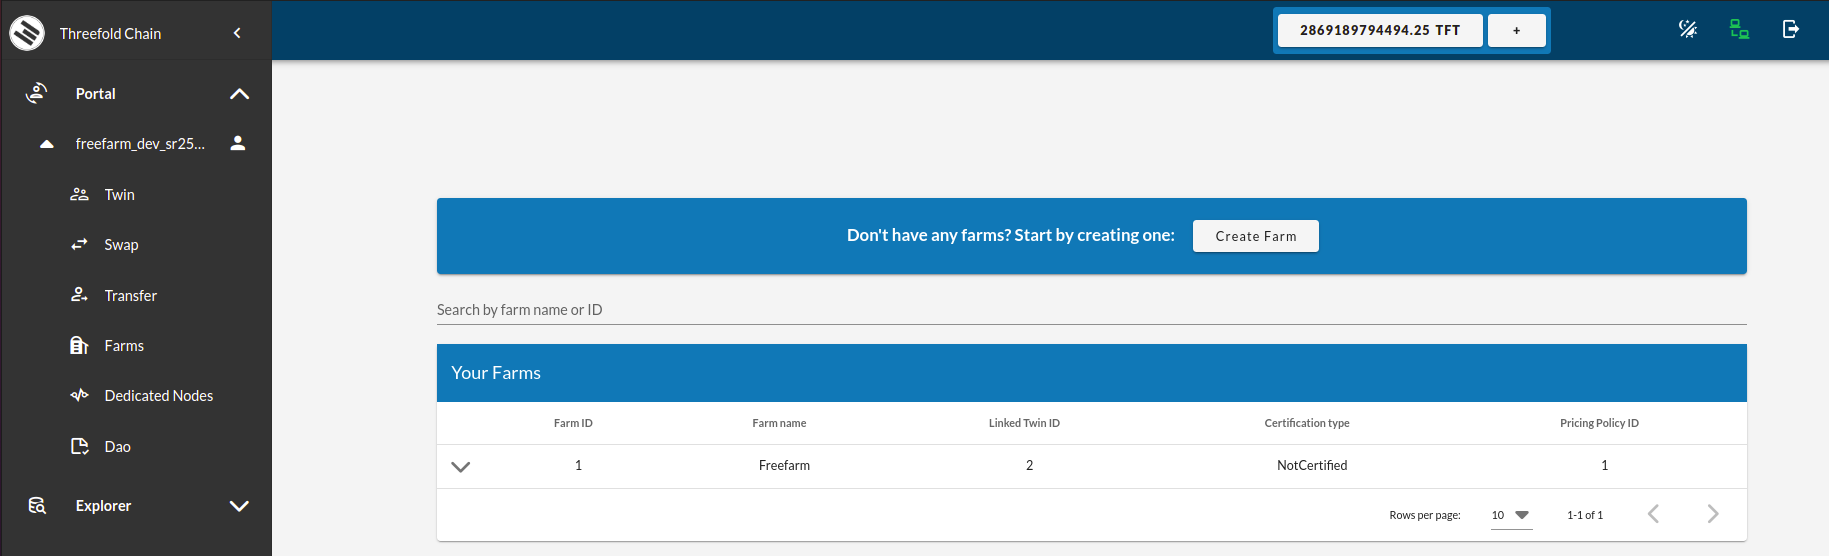
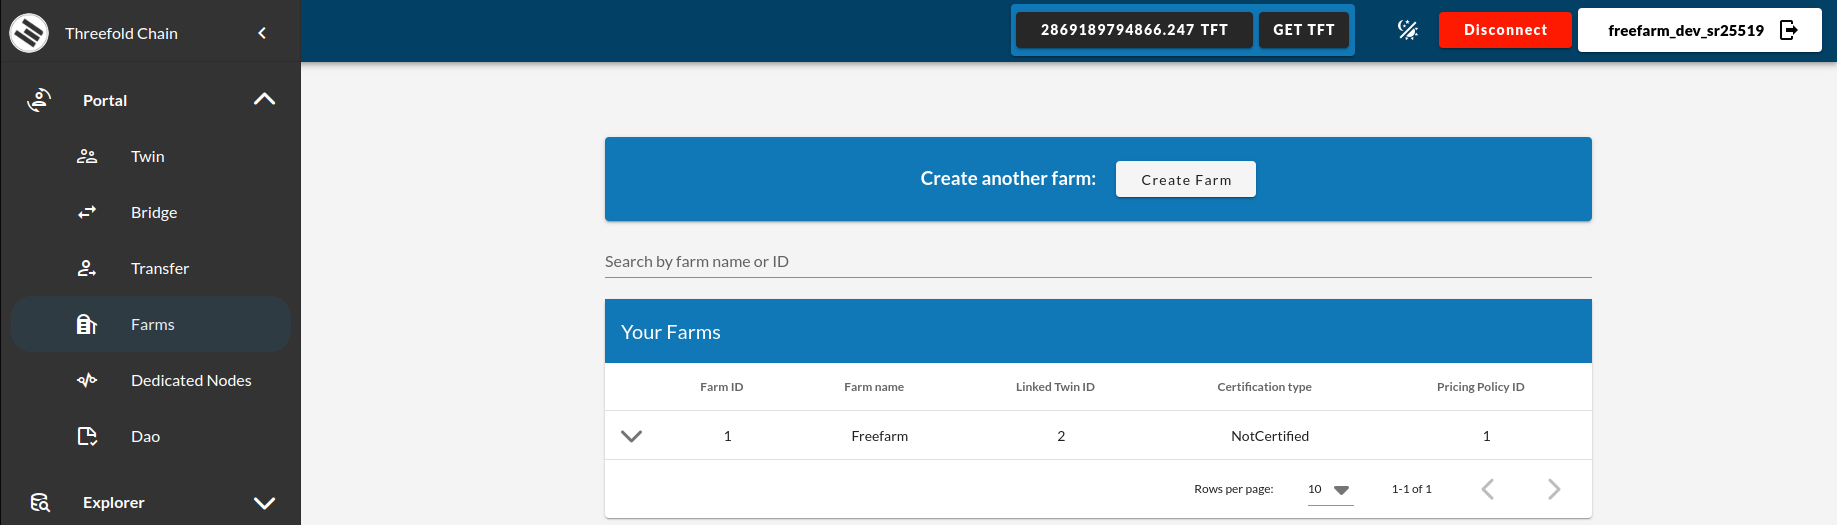
Updating dashboard docs

diff --git a/docs/print.html b/docs/print.html
@@ -3980,8 +3980,8 @@ the applied format <code>&lt;solution-code&gt;&lt;twin-id&gt;&lt;solution-name&g
 <li>
 <p>Token management</p>
 <ul>
-<li>Swapping with Binance and Stellar
-<img src="dashboard/./img/dashboard_swap.png" alt="swap" /></li>
+<li>Bridging with Binance and Stellar
+<img src="dashboard/./img/dashboard_bridge.png" alt="swap" /></li>
 <li>Transferring money to other tfchain user
 <img src="dashboard/./img/dashboard_portal_transfer.png" alt="transfer" /></li>
 </ul>

diff --git a/docs/dashboard/dashboard.html b/docs/dashboard/dashboard.html
@@ -153,8 +153,8 @@
 <li>
 <p>Token management</p>
 <ul>
-<li>Swapping with Binance and Stellar
-<img src="./img/dashboard_swap.png" alt="swap" /></li>
+<li>Bridging with Binance and Stellar
+<img src="./img/dashboard_bridge.png" alt="swap" /></li>
 <li>Transferring money to other tfchain user
 <img src="./img/dashboard_portal_transfer.png" alt="transfer" /></li>
 </ul>

diff --git a/src/dashboard/dashboard.md b/src/dashboard/dashboard.md
@@ -12,8 +12,8 @@ The dashboard is a unified admin interface for everything related to Threefold G
 ![dao](./img/dashboard_dao.png)
 
 - Token management
-    - Swapping with Binance and Stellar
-    ![swap](./img/dashboard_swap.png)
+    - Bridging with Binance and Stellar
+    ![bridge](./img/dashboard_bridge.png)
     - Transferring money to other tfchain user
     ![transfer](./img/dashboard_portal_transfer.png)
 

diff --git a/src/dashboard/portal/dashboard_portal_ui_tokens.md b/src/dashboard/portal/dashboard_portal_ui_tokens.md
@@ -39,7 +39,7 @@ Go to portal
 
 !!!include:tfchain_portal_list
 
-Click on `Swap` in the sidebar to get the transfer screen. Click `Deposit`
+Click on `Bridge` in the sidebar to get the transfer screen. Click `Deposit`
 
 ![ ](../img/dashboard_portal_deposit_tft.png ':size=400')
 
